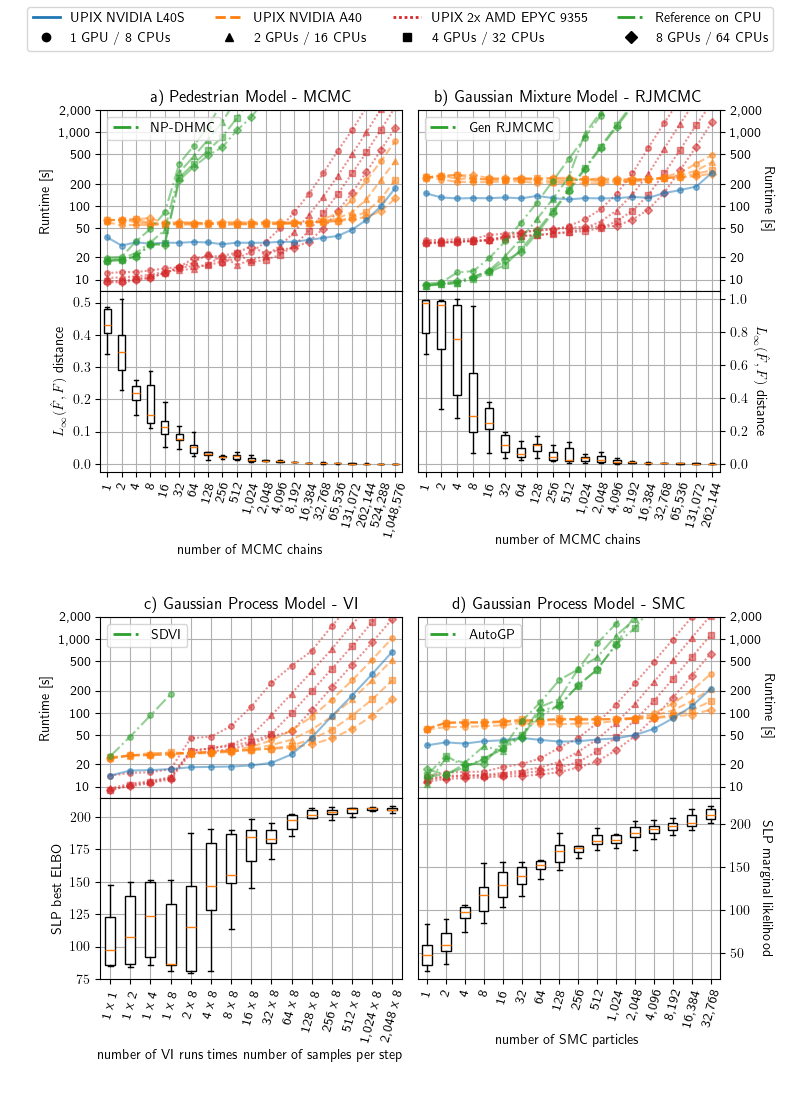
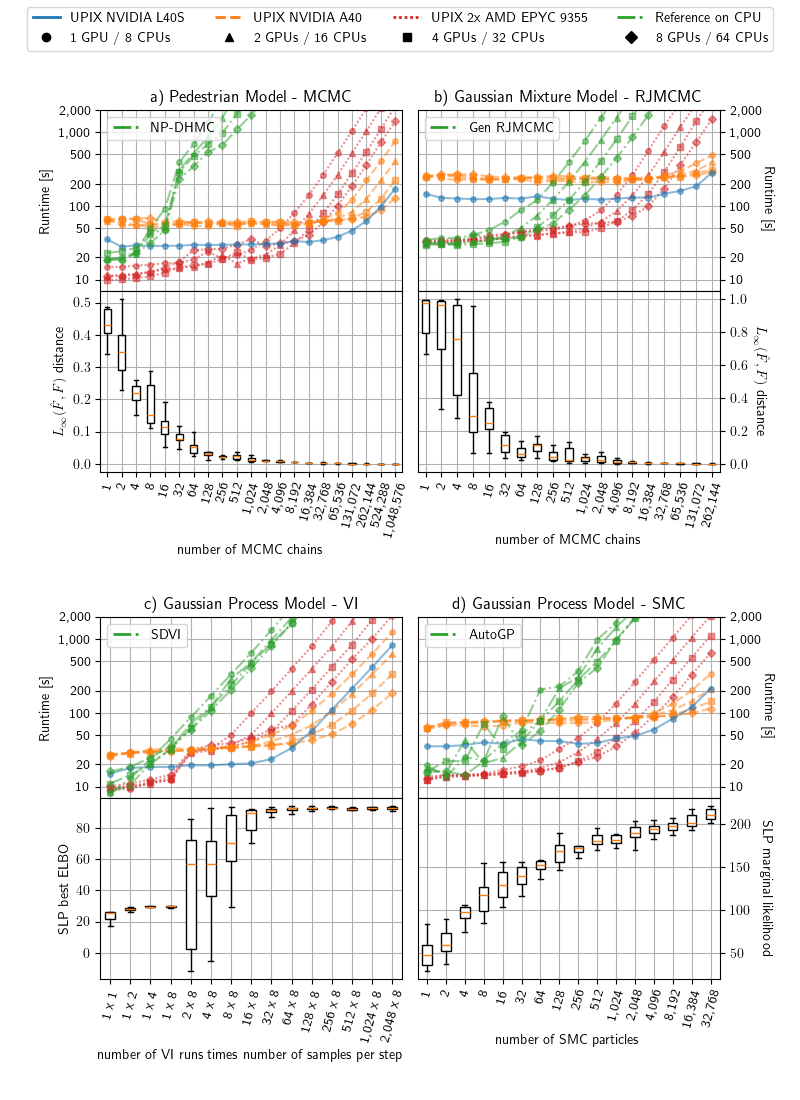
update readme and scaling plot

diff --git a/experiments/scale_plot.py b/experiments/scale_plot.py
@@ -73,13 +73,29 @@ linestyles = {
     "COMP": "dashdot"
 }
 
-def get_shade(color, i, n):
-    i = i - 1
-    rgb = np.array(mcolors.to_rgb(color))
-    return (1 - i/(n-1)) * np.array([1,1,1]) + (i/(n-1)) * rgb
+has_series = {}
 
+def get_marker(kind, platform, n_devices):
+    return markers.get((platform, n_devices), M[0])
+
+def get_linestyle(kind, n_devices):
+    if kind not in linestyles:
+        linestyles[kind] = "solid"
+    return linestyles[kind]
+
+available_colors = [
+    "tab:gray"
+    "tab:olive",
+    "tab:cyan",
+    "tab:purple",
+]
 def get_color(kind, n_devices):
-    return colors.get(kind, "black")
+    has_series[kind] = True
+    if kind not in linestyles:
+        colors[kind] = available_colors.pop()
+    return colors[kind]
+
+CPU_NAME = "2x AMD EPYC 9355"
 
 for i, (model_path, SCALE_COL, comp_path, COMP_NAME, comp_time) in enumerate([
     ("pedestrian", "n_chains", "pedestrian/nonparametric", "NP-DHMC", "inference_time"),
@@ -94,6 +110,10 @@ for i, (model_path, SCALE_COL, comp_path, COMP_NAME, comp_time) in enumerate([
     df["kind"] = df["gpu-brand"].map(lambda x: x[0][len("GPU 0: "):])
     df.loc[df["kind"] == "NVIDIA A100-SXM4-40GB", "kind"] = "NVIDIA A100S"
     df.loc[df["platform"] == "cpu", "kind"] = "CPU"
+    
+    if (df["platform"] == "cpu").any():
+        if (df["cpu-brand"] != "AMD EPYC 9355 32-Core Processor").any():
+            CPU_NAME = "CPU"
         
     if model_path == "gp/vi":
         df[SCALE_COL] = df["n_runs"] * df["L"]
@@ -138,8 +158,8 @@ for i, (model_path, SCALE_COL, comp_path, COMP_NAME, comp_time) in enumerate([
         ax.plot(np.arange(len(group["METRIC"]))+1, group["METRIC"],
                 #  label=f"{n_devices} {platform} {kind}", 
                 c=get_color(kind, n_devices),
-                marker=markers.get((platform, n_devices), M[0]),
-                linestyle=linestyles.get(kind, "solid"),
+                marker=get_marker(kind, platform, n_devices),
+                linestyle=get_linestyle(kind, n_devices),
                 markersize=4,
                 alpha=0.5
         )
@@ -162,7 +182,7 @@ for i, (model_path, SCALE_COL, comp_path, COMP_NAME, comp_time) in enumerate([
         ax.plot(np.arange(len(group["METRIC"]))+1, group["METRIC"],
                 # label=f"{n_devices} {platform} {kind}", 
                 c=get_color(kind, n_devices),
-                marker=markers.get((platform, n_devices), M[0]),
+                marker=get_marker(kind, platform, n_devices),
                 linestyle=linestyles["COMP"],
                 markersize=4,
                 alpha=0.5
@@ -240,22 +260,29 @@ axs[4,1].set_xlabel("number of SMC particles")
 
 legend_elements = []
 for kind, color in colors.items():
+    if not has_series.get(kind, False):
+        continue
     if kind == "COMP":
         label = "Reference on CPU"
     elif kind == "CPU":
-        label = "UPIX 2x AMD EPYC 9355"
+        label = f"UPIX {CPU_NAME}"
     else:
         label = "UPIX " + kind
     legend_elements.append(Line2D([0], [0], color=color, linestyle=linestyles[kind], lw=2, label=label))
+legend_elements.extend([Line2D([0],[0],alpha=0.)]*(4-len(legend_elements)))
+ncols = len(legend_elements)
+
 for i in range(4):
     n_cpu = 2**(i+3)
     n_gpu = 2**(i)
     legend_elements.append(Line2D([0],[0], marker=M[i], lw=0, color="black", label=f"{n_gpu} {"GPUs" if n_gpu > 1 else "GPU"} / {n_cpu} CPUs"))
-
+legend_elements.extend([Line2D([0],[0],alpha=0.)]*(2*ncols-len(legend_elements)))
 
 # plt.tight_layout()
+half = len(legend_elements) // 2
+reorder = [i // 2 if i % 2 == 0 else half + i // 2 for i in range(len(legend_elements))]
 
-fig.legend(handles=[legend_elements[i] for i in [0,4,1,5,2,6,3,7]], loc="upper center", ncols=4)
+fig.legend(handles=[legend_elements[i] for i in reorder], loc="upper center", ncols=ncols)
 # fig.subplots_adjust(top=0.9)
 
 # plt.savefig("scale_figure.png")

diff --git a/experiments/table_1.py b/experiments/table_1.py
@@ -6,28 +6,30 @@ import argparse
 
 parser = argparse.ArgumentParser()
 parser.add_argument("folder")
+parser.add_argument("ncpu", type=int)
 args = parser.parse_args()
 
 datafolder = args.folder
+ncpu = int(args.ncpu)
 
 results = [
-    ("pedestrian/nonparametric/comp/cpu_08", "timings/inference_time", "result_metrics/L_inf"),
-    ("pedestrian/comp/cpu_08", "timings/wall_time", "result_metrics/L_inf"),
+    (f"pedestrian/nonparametric/comp/cpu_{ncpu}", "timings/inference_time", "result_metrics/L_inf"),
+    (f"pedestrian/comp/cpu_10", "timings/wall_time", "result_metrics/L_inf"),
     
-    ("gp/sdvi/comp", "timings/wall_time", "result_metrics/lppd"),
-    ("gp/vi/comp/cpu_08", "timings/wall_time", "result_metrics/lppd"),
+    (f"gp/sdvi/comp", "timings/wall_time", "result_metrics/lppd"),
+    (f"gp/vi/comp/cpu_{ncpu}", "timings/wall_time", "result_metrics/lppd"),
     
-    ("gmm/rjmcmc/comp/cpu_08", "timings/wall_time", "result/L_inf"),
-    ("gmm/comp/cpu_08", "timings/wall_time", "result_metrics/L_inf"),
+    (f"gmm/rjmcmc/comp/cpu_{ncpu}", "timings/wall_time", "result/L_inf"),
+    (f"gmm/comp/cpu_{ncpu}", "timings/wall_time", "result_metrics/L_inf"),
     
-    ("gp/autogp/comp/cpu_08", "timings/wall_time", "result_metrics/lppd"),
-    ("gp/smc/comp/cpu_08", "timings/wall_time", "result_metrics/lppd"),
+    (f"gp/autogp/comp/cpu_{ncpu}", "timings/wall_time", "result_metrics/lppd"),
+    (f"gp/smc/comp/cpu_{ncpu}", "timings/wall_time", "result_metrics/lppd"),
     
     ("urn/dice/cpu_01", "timings/wall_time", "result_metrics/L_inf"),
     ("urn/ve/cpu_01", "timings/wall_time", "result_metrics/L_inf"),
     
-    # ("gp/sdvi/comp", "timings/wall_time", "result_metrics/lppd_std"),
-    # ("gp/vi/comp/cpu_08", "timings/wall_time", "result_metrics/lppd_std"),
+    # (f"gp/sdvi/comp", "timings/wall_time", "result_metrics/lppd_std"),
+    # (f"gp/vi/comp/cpu_{ncpu}", "timings/wall_time", "result_metrics/lppd_std"),
 ]
 
 i = 0

diff --git a/evaluation/gp/run_comp_smc.py b/evaluation/gp/run_comp_smc.py
@@ -36,7 +36,7 @@ if __name__ == "__main__":
         smc_n_particles=args.n_particles,
         smc_collect_inference_info=True,
         max_iterations = 5,
-        n_lmh_update_samples = 250,
+        n_update_samples = 25,
         max_active_slps = 5,
         max_new_active_slps = 5,
         one_inference_run_per_slp = True,

diff --git a/README.md b/README.md
@@ -19,8 +19,6 @@ UPIX provides constructs to for **programmable inference**: we enable the user t
 
 ## Usage
 
-This is a work in progress. Instructions are coming soon.
-
 Install options: `[cpu]`, `[cuda]`, and `[tpu]`.
 
 For now, we refer to the example programs in the `evaluation` folder.
@@ -48,7 +46,7 @@ def pedestrian():
 ```
 Above we have implemented the Pedestrian model from Mak et al. [2].
 The syntax resemples NumPyro with the criticial difference that the while loop depends on `position` and `distance`, two quantities that are computed from the random variables `f"step_{t}"`.
-Thus, the number of while loop iteration depends on the values sampled during execution, resulting in a stochastic support.
+Thus, the number of while loop iteration and, by extension the number of random variables, depend on the values sampled during execution, resulting in a stochastic support.
 Each straight-line program SLP corresponds to a sub-model where the loop is run for a fixed number of times.
 
 ```python
@@ -87,13 +85,13 @@ We use a Metropolis-Hastings kernel `RW` for the `start` variable, which simply 
 For the step variables, we apply discontinuous HMC `DHMC`, a variant of Hamiltonian Monte Carlo which can deal with discontinuities.
 
 In `initialise_active_slps` and `update_active_slps`, we may specify how we find SLPs and for which of them inference should be run.
-In the former, we simply draw 250 samples from the program prior which instantiates SLPs, then weigh them with importance sampling, and make the most probable SLPs active.
+In the former, we simply draw 250 samples from the program prior which instantiates SLPs, then weighs them with importance sampling, and makes the most probable SLPs active.
 For this simple model, in `update_active_slps` we simply make all SLPs inactive after running inference once.
 For more complex model, we may implement more sophisticated routines here that discard low probability SLPs and slighlty mutate high probability SLPs resulting in multiple DCC phases.
 
 Lastly, building on features of JAX, we allow the user to customise parallelisation and vectorisation for inference.
 In UPIX, you can run inference for multiple SLPs in parallel on multi-core CPUs or on different accelerator devices like GPUs or TPUs.
-But we also have the option to use mutliple devices to accelerate inference for a single SLP.
+But we also have the option to use multiple devices to accelerate inference for a single SLP.
 This is especially useful for inference routines which can be efficiently parallelised like many-chain MCMC, multiple-run VI, or SMC, see the scaling section below.
 
 On the right, you can see the inference result as an approximation to the posterior of the variable `start`.
@@ -129,23 +127,24 @@ We can see that this approximation is close to the ground truth.
 
 - For reproducing Section 4
   - MacOS / Linux
-  - >= 8 CPU cores
-  - >= 32 GB RAM
+  - at least 8 CPU cores
+  - at least 32 GB RAM
   - 5 - 6 hours runtime
 - For reproducing Section 5 fully
-  - Linux
+  - Linux (or Docker)
   - 64 CPU cores
   - 8 Nvidia GPUs with 48 GB VRAM
   - ~100 hours runtime
 - For reproducing Section 5 partially
-  - Linux
+  - Linux (or Docker)
   - 8 CPU cores
   - 1 Nvidia GPU
   - ~10 hours runtime
 
 #### Docker (Recommended)
 
-Install [docker](https://www.docker.com).
+Install [docker](https://www.docker.com).  
+If you want to run experiments on a Nvidia GPU, you need CUDA (used version: 13.2).
 
 You can download and load the docker image provided at [Zenodo](TODO) with
 ```
@@ -217,7 +216,7 @@ docker pull sholtzen/dice@sha256:5aadf3edfa7aea292492b14971d9ac03adef1ddc7548e65
 
 Make sure `export TMPDIR=$(pwd)/tmp` is set.
 
-Run inside Docker container (if used) with `<ncpu>` set to the number of available CPU cores in your machine, runtime ~10min:
+Run inside Docker container (if used) with `<ncpu>` set to the number of available CPU cores, runtime ~10min:
 ```
 python3 experiments/runners/run_comp.py all <ncpu> --smoketest
 ```
@@ -225,12 +224,13 @@ Run outside of Docker container, runtime ~20s if dice image installed:
 ```
 python3 experiments/runners/run_comp.py dice 1 --smoketest
 ```
+If you want to restrict the number of used CPUs, see <a name="restricting-cpus">here</a>.
 
 For reference output see [sanity_check.txt](sanity_check.txt).
 
 Outputs are stored in `experiments/data`.
 
-To test execution with GPU, run
+To test execution with GPU, first make sure `nvidia-smi` prints the GPUs you want to use and run
 ```
 uv run -p python3.13 --frozen --extra=cuda evaluation/pedestrian/run_comp.py sequential pmap
 ```
@@ -240,7 +240,7 @@ Start DCC:
 parallelisation=Sequential(global vmap, device=cuda:0)
 ...
 ```
-and exit without error.
+and exit without error. If you want to restrict the number of used GPUs, adjust the docker settings or set `CUDA_VISIBLE_DEVICES` accordingly.
 
 Delete the data folder after completing the sanity check:
 ```
@@ -262,19 +262,23 @@ Run outside of Docker container, runtime ~2h:
 ```
 python3 experiments/runners/run_comp.py dice 1
 ```
-Set `<ncpu>` to the number of available CPU cores in your machine. The script will adjust the workload based on the available cores (see below).   
-If you do not want use all your available CPU cores, for a fair benchmark, you need to limit them with `taskset` (only avaiable on Linux) or in the Docker settings.  
+Set `<ncpu>` to the number of available CPU cores in your machine. The script will adjust the workload based on the available cores (see below).
+
+
+<a name="restricting-cpus"></a>
+**Restricting Number of CPUs.** If you do not want use all your available CPU cores, for a fair benchmark, you need to limit them with `taskset` (only avaiable on Linux) or in the Docker settings.  
 E.g. `taskset -c 0-3 python3 experiments/runners/run_comp.py all 4`.  
-Otherwise, JAX, PyTorch, BLAS, etc will use all the available CPUs under the hood.  
+Otherwise, JAX, PyTorch, BLAS, etc, will use all the available CPUs under the hood.  
 The script will error if the number of available CPUs exceeds `<ncpu>`. You can silence this error by setting `export NOCHECKENV=true`.
 
-The experiment results from the paper are included in the artifact.
+The `experiment/data` folder from the paper results is included in the artifact.
 
-Use `uv run --with=pandas experiments/table_1.py <experiments/data folder>` to print statistics as in Table 1.
+Use `uv run --with=pandas experiments/table_1.py <experiments/data folder> <ncpu>` to print statistics as in Table 1.  
+Absolute numbers will vary based on your hardware, but the relative differences and core conclusions should match Table 1 in the paper.
 
 In the following, the individual commands executed with `run_comp.py` are listed.  
-**For artifact evaluation, you may skip these sections.**  
-For these commands we use the `NCPU` environment variable.
+**For artifact evaluation, you may skip these sections and continue to <a href="section5">Section 5</a>.**  
+For these commands we use the `NCPU` environment variable set to the number of available CPUs.
 
 #### Section 4.1: MCMC - Pedestrian Model
 
@@ -349,11 +353,12 @@ uv run -p python3.13 --frozen --extra=cpu --with=pandas evaluation/urn/run_comp.
 ```
 
 ### Reproducing Section 5: Scaling Experiments - Figure 8
+<a name="section5"><a>
 
 We have implemented scripts to launch the scaling experiments for each model with varying hardware and workload.
 Set `$platform = cpu | cuda` arguments depending on your hardware.
 `$ndevices` **has to be a power of 2**.
-If you do not have a CPU with a processor count that is a power of 2, then you may prefix the following commands with `taskset` to restrict the available CPUs, e.g. `taskset -c 0-7 bash experiments/...` to use 8 CPUs (only works on Linux) or limit them in the Docker settings.
+If you do not have a CPU with a processor count that is a power of 2, then you may prefix the commands with `taskset` to restrict the available CPUs, e.g. `taskset -c 0-7 bash experiments/...` to use 8 CPUs (only works on Linux) or limit them in the Docker settings.
 Similarly, for GPUs, you may set `CUDA_VISIBLE_DEVICES` and see https://docs.docker.com/engine/containers/gpu/ for Docker.
 We ran our experiments on a Linux machine with 64 CPU cores and 8 48GB NVIDIDA GPUs (without Docker) using following configurations:
 ```
@@ -370,14 +375,14 @@ python3 experiments/runners/run_pedestrian_scale.py cuda 1 0 20 sequential
 ```
 runs the scaling experiment for the Pedestrian model with number of MCMC chains varying from `2^0=1` to `2^20=1048576` on a single GPU.
 
-**For artifact evaluation, we recommend running following command, which performs a partial scaling experiment.**
+**For artifact evaluation, we recommend running following command, which performs a partial scaling experiment up to 2^10 workloads only.**
 ```
 bash experiments/runners/run_scale_all_experiments.sh <ncpu> <ncuda> 10 10 10 10
 ```
-It runs all experiments only up to `2**10` workload for one CPU and one CUDA configuration.  
+It runs all experiments only up to `2^10` workload for one CPU and one CUDA configuration.  
 With `<ncpu> = 8` and `<ncuda> = 1`, it takes around 10 hours to complete.
 
-Use `uv run --with pandas experiments/scale_plot.py <experiments/data folder>` to generate the scaling figure.
+Use `uv run --with pandas experiments/scale_plot.py <experiments/data folder>` to reproduce Figure 8.
 
 Again, the experiment results from the paper are included in the artifact.
 
@@ -396,34 +401,47 @@ bash experiments/runners/run_scale_all_upix.sh cuda <ncuda> <logsuffix> 20 14 15
 bash experiments/runners/run_scale_all_accuracy.sh 20 14 15 18
 ```
 
-
 ## Reproducing Minor Figures
 
 ### Figure 7
 
+Run to store the output of NP-DHMC
+```
 uv run -p python3.10 --no-project --with-requirements=evaluation/pedestrian/nonparametric-hmc/requirements.txt evaluation/pedestrian/nonparametric-hmc/pedestrian.py NP-DHMC 10 1000 100 -n_processes 10 -seed 0 --store_samples
+```
 
+Run
+```
 uv run evaluation/pedestrian/nonparametric-hmc/check_results.py
+```
+to generate the left plot of Figure 7 at `result_pedestrian_nonparametric-hmc.pdf`
 
-result_pedestrian_nonparametric-hmc.pdf
-
+Run
+```
 uv run -p python3.13 --frozen --extra=cpu evaluation/pedestrian/run_comp.py sequential pmap -n_chains 10 -n_samples_per_chain 25000 --cpu -host_device_count 10 -seed 0 --show_plots
-
-result_pedestrian_upix.pdf
+```
+to generate the right plot of Figure 7 at `result_pedestrian_upix.pdf`
 
 
 ### Figure 9a
 
+Run
+```
 uv run --frozen -p python3.13 --extra=cpu --with=pandas evaluation/gp/viz_vi_elbo_scale_prelim.py sequential smap_local --cpu -host_device_count 8
-
-elbo_scaling_L.pdf
+```
+to reproduce the left plot of Figure 9 at `elbo_scaling_L.pdf`.
 
 ### Figure 9b
 
-uv run evaluation/urn/viz_factor_size.py
+Run
+```
+uv run evaluation/urn/viz_factor_size.py <experiments/data folder>
+```
+*pointed at the provided paper results folder* to reproduce the right plot of Figure 9 at `factor_size_scaling.pdf`
 
-factor_size_scaling.pdf
-
-logs created with 
+The provided results folder contains logs in the `urn` sub-folder generated with
+```
 uv run -p python3.13 --frozen --extra=cpu evaluation/urn/run_comp.py sequential vmap_local 25 --jit_inf --cpu
 uv run -p python3.13 --frozen --extra=cuda evaluation/urn/run_comp.py sequential vmap_local 25 --jit_inf
+```
+for different hardware.